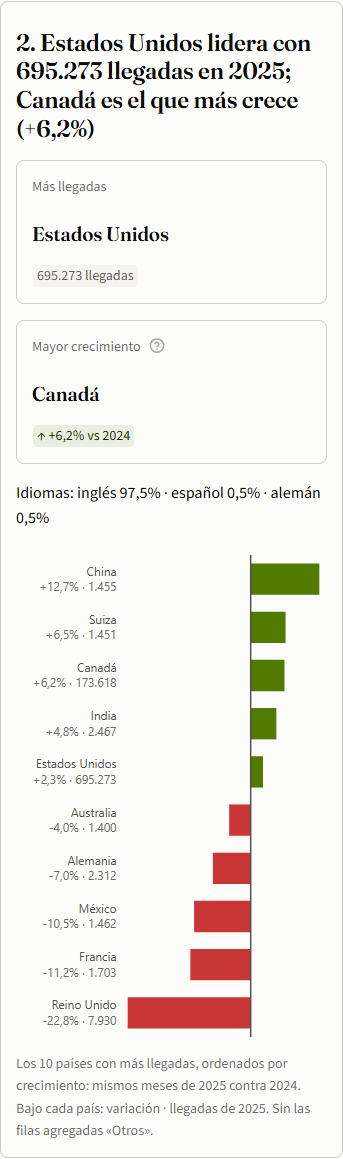
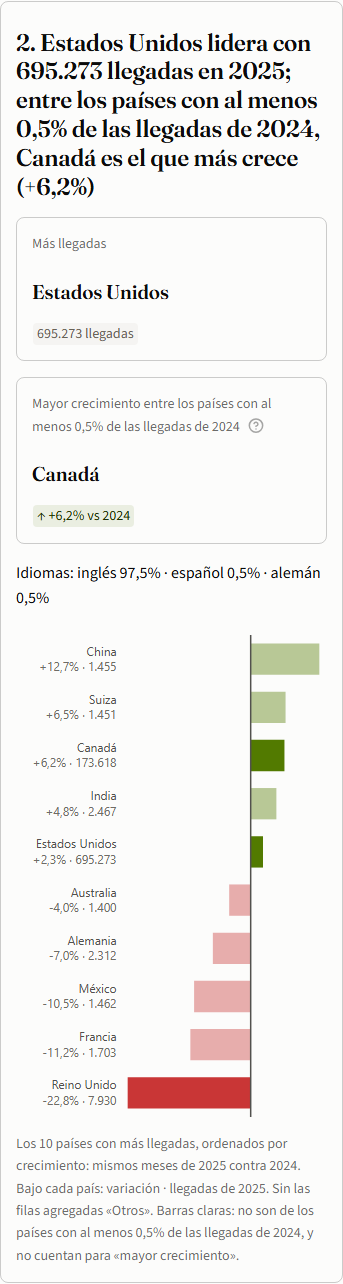
Titulo 2: Canada es el que mas crece solo entre los paises con el minimo de llegadas
El titulo y la tarjeta dicen la regla con la misma constante que usa el calculo
(q.MIN_PARTICIPACION); el ranking aclara las barras de los paises que no cuentan. Prueba que
compara el pais del titulo con el primero del grafico que cumple la regla. El titulo 3 aclara
que el mes pico es el del total. Capturas del ranking y la estacionalidad actualizadas.

Changed region(s): [[0.0292, 0.0, 0.9329, 0.994], [0.4956, 0.4038, 0.9329, 0.6833]]

diff --git a/src/titulos.py b/src/titulos.py
@@ -49,8 +49,19 @@ def recuperacion(quien: str, variacion, periodo: str, total, variacion_pais=None
     return f"{frase}; el país entero aún no ({fmt(variacion_pais, 'pct')})"
 
 
-def paises(hasta: int, lider: dict, crece: dict | None = None, unico: bool = False) -> str:
-    """Pregunta 2. `lider` y `crece` traen pais, llegadas y crecimiento (puede faltar el crecimiento)."""
+def mercados_que_cuentan(hasta: int, minimo: float) -> str:
+    """Regla de «mayor crecimiento», con el mismo mínimo que usa el cálculo (q.MIN_PARTICIPACION)."""
+    return f"países con al menos {fmt(minimo, 'part')} de las llegadas de {hasta - 1}"
+
+
+def paises(
+    hasta: int, lider: dict, crece: dict | None = None, unico: bool = False, minimo: float | None = None
+) -> str:
+    """Pregunta 2. `lider` y `crece` traen pais, llegadas y crecimiento (puede faltar el crecimiento).
+
+    `minimo` es la participación mínima que usa el cálculo de «mayor crecimiento»; es obligatoria
+    cuando hay `crece`, porque «el que más crece» solo vale entre los países que cumplen esa regla.
+    """
     if unico:
         frase = f"2. {lider['pais']} recibió {fmt(lider['llegadas'])} turistas en {hasta}"
         c = lider.get("crecimiento")
@@ -58,14 +69,18 @@ def paises(hasta: int, lider: dict, crece: dict | None = None, unico: bool = Fal
     frase = f"2. {lider['pais']} lidera con {fmt(lider['llegadas'])} llegadas en {hasta}"
     if crece is None:
         return frase
+    if minimo is None:
+        raise ValueError("«el que más crece» necesita el mínimo de llegadas que usa el cálculo")
+    regla = mercados_que_cuentan(hasta, minimo)
+    pct = fmt(crece["crecimiento"], "pct")
     if crece["pais"] == lider["pais"]:
-        return f"{frase} y es el que más crece ({fmt(crece['crecimiento'], 'pct')})"
-    return f"{frase}; {crece['pais']} es el que más crece ({fmt(crece['crecimiento'], 'pct')})"
+        return f"{frase} y, entre los {regla}, es el que más crece ({pct})"
+    return f"{frase}; entre los {regla}, {crece['pais']} es el que más crece ({pct})"
 
 
 def estacionalidad(concentracion: float, mes_pico: int) -> str:
-    """Pregunta 3. `mes_pico` va de 1 a 12."""
+    """Pregunta 3. `mes_pico` va de 1 a 12; es el del total de llegadas, no el de cada fila del mapa."""
     return (
-        f"3. {_mayuscula(MESES_LARGOS[mes_pico - 1])} es el mes pico; "
+        f"3. {_mayuscula(MESES_LARGOS[mes_pico - 1])} es el mes pico del total; "
         f"diciembre a abril concentra {fmt(concentracion, 'part')} de las llegadas"
     )

diff --git a/tests/test_app.py b/tests/test_app.py
@@ -10,6 +10,9 @@ pytest.importorskip("duckdb")
 import duckdb  # noqa: E402
 from streamlit.testing.v1 import AppTest  # noqa: E402
 
+from src import consultas as q  # noqa: E402
+from src import titulos  # noqa: E402
+
 RAIZ = Path(__file__).parent.parent
 APP = RAIZ / "app.py"
 DB = RAIZ / "data" / "processed" / "turismo.duckdb"
@@ -56,7 +59,8 @@ def test_valores_por_defecto():
     llegadas, variacion = (re.search(r"\[(?:↑ |↓ )?(\S+)", b).group(1) for b in badges(at))
     assert p2.startswith(f"2. {lider} lidera con {llegadas} llegadas")
     assert crece in p2 and variacion in p2
-    assert p3.startswith("3. Marzo es el mes pico")
+    assert titulos.mercados_que_cuentan(2025, q.MIN_PARTICIPACION) in p2  # el título dice la regla
+    assert p3.startswith("3. Marzo es el mes pico del total")
     assert tarjeta["Temporada alta (dic-abr)"].value in p3
     assert at.selectbox(key="via").value == "lir"
     assert at.slider(key="rango").value == (2019, 2025)
@@ -102,6 +106,27 @@ def test_un_nombre_largo_va_en_un_encabezado_y_no_en_un_metric_que_lo_recortaria
     assert not at.exception
     assert nombres_de_tarjeta(at)[0] == "República Dominicana"
     assert "República Dominicana" not in [m.value for m in at.metric]
+
+
+@pytest.mark.parametrize(
+    ("via", "regiones"), [("lir", []), ("todas", []), ("terrestre", []), ("todas", ["Europa"])]
+)
+def test_el_pais_del_titulo_es_el_primero_del_grafico_que_cumple_la_regla(via, regiones):
+    at = nueva()
+    at.selectbox(key="via").set_value(via)
+    at.multiselect(key="regiones").set_value(regiones).run()
+    assert not at.exception
+    titulo = [s.value for s in at.subheader][1]
+    grafico = paises_del_ranking(at)  # ordenado por crecimiento, de mayor a menor
+    con = duckdb.connect(str(DB), read_only=True)
+    rk = q.ranking_paises(con, via=via, desde=2019, hasta=2025, regiones=regiones, paises=[])
+    cuenta = dict(zip(rk["pais"], rk["califica"], strict=True))
+    primero = next(p for p in grafico if cuenta[p])
+    assert primero in titulo and "es el que más crece" in titulo
+    assert titulos.mercados_que_cuentan(2025, q.MIN_PARTICIPACION) in titulo
+    assert not any(cuenta[p] for p in grafico[: grafico.index(primero)])  # lo que está más arriba no cuenta
+    barras = json.loads(at.get("plotly_chart")[1].proto.spec)["data"][0]
+    assert [o == 1 for o in barras["marker"]["opacity"]] == [cuenta[p] for p in barras["y"]]
 
 
 def test_rango_2020_2021_pide_un_anio_completo():

diff --git a/app.py b/app.py
@@ -200,15 +200,21 @@ with st.container(border=True):
         )
     else:
         lider, crece = rk.iloc[0], q.mas_crece(rk)
-        st.subheader(titulos.paises(hasta, lider.to_dict(), None if crece is None else crece.to_dict()))
+        # «el que más crece» solo vale entre los países que cumplen el mínimo del cálculo (q.MIN_PARTICIPACION)
+        regla = titulos.mercados_que_cuentan(hasta, q.MIN_PARTICIPACION)
+        st.subheader(
+            titulos.paises(
+                hasta, lider.to_dict(), None if crece is None else crece.to_dict(), minimo=q.MIN_PARTICIPACION
+            )
+        )
         cols = st.columns(2)
         tarjeta_nombre(cols[0], "Más llegadas", lider["pais"], f"{fmt(lider['llegadas'])} llegadas")
         if crece is not None:
             tarjeta_nombre(
-                cols[1], "Mayor crecimiento", crece["pais"],
+                cols[1], f"Mayor crecimiento entre los {regla}", crece["pais"],
                 f"{fmt(crece['crecimiento'], 'pct')} vs {hasta - 1}", crece["crecimiento"],
-                ayuda=f"Entre los {len(rk)} países con más llegadas. Cuentan solo los que en {hasta - 1} "
-                f"tenían al menos {fmt(q.MIN_PARTICIPACION, 'part')} de las llegadas de la vía.",
+                ayuda=f"Entre los {len(rk)} países con más llegadas. Cuentan solo los {regla}: "
+                "así un salto de 50 a 100 llegadas no gana a uno de 10.000 a 11.000.",
             )  # fmt: skip
         idiomas = q.idiomas_principales(con, **filtros)
         if not idiomas.empty:
@@ -216,10 +222,13 @@ with st.container(border=True):
                 "Idiomas: "
                 + " · ".join(f"{i.idioma} {fmt(i.participacion, 'part')}" for i in idiomas.itertuples())
             )
-        grafica(g.fig_ranking(rk))
+        grafica(g.fig_ranking(rk, regla))
+        aviso = ""
+        if (~rk["califica"] & rk["crecimiento"].notna()).any():
+            aviso = f" Barras claras: no son de los {regla}, y no cuentan para «mayor crecimiento»."
         st.caption(
             f"Los {len(rk)} países con más llegadas, ordenados por crecimiento: mismos meses de {hasta} contra "
-            f"{hasta - 1}. Bajo cada país: variación · llegadas de {hasta}. Sin las filas agregadas «Otros»."
+            f"{hasta - 1}. Bajo cada país: variación · llegadas de {hasta}. Sin las filas agregadas «Otros».{aviso}"
         )
 
 # ---------- P3: estacionalidad ----------

diff --git a/tests/test_titulos.py b/tests/test_titulos.py
@@ -1,5 +1,7 @@
 """Los títulos arman la frase con las cifras que reciben, sin ninguna escrita a mano."""
 
+import pytest
+
 from src import titulos as t
 
 
@@ -32,11 +34,16 @@ def test_recuperacion_cambia_de_frase_segun_los_datos():
 def test_paises():
     eeuu = {"pais": "Estados Unidos", "llegadas": 695273, "crecimiento": 0.023}
     canada = {"pais": "Canadá", "llegadas": 173618, "crecimiento": 0.062}
-    assert t.paises(2025, eeuu, canada) == (
-        "2. Estados Unidos lidera con 695.273 llegadas en 2025; Canadá es el que más crece (+6,2%)"
+    assert t.paises(2025, eeuu, canada, minimo=0.005) == (
+        "2. Estados Unidos lidera con 695.273 llegadas en 2025; entre los países con al menos 0,5% "
+        "de las llegadas de 2024, Canadá es el que más crece (+6,2%)"
     )
-    assert t.paises(2025, eeuu, eeuu).endswith("y es el que más crece (+2,3%)")
+    # el mínimo sale del argumento: otro valor, otra frase
+    assert "al menos 2,0% de las llegadas de 2024" in t.paises(2025, eeuu, canada, minimo=0.02)
+    assert t.paises(2025, eeuu, eeuu, minimo=0.005).endswith("es el que más crece (+2,3%)")
     assert t.paises(2025, eeuu) == "2. Estados Unidos lidera con 695.273 llegadas en 2025"
+    with pytest.raises(ValueError, match="mínimo"):  # no se puede decir «el que más crece» sin la regla
+        t.paises(2025, eeuu, canada)
     assert (
         t.paises(2025, eeuu, unico=True)
         == "2. Estados Unidos recibió 695.273 turistas en 2025 (+2,3% contra 2024)"
@@ -49,6 +56,6 @@ def test_paises():
 def test_estacionalidad():
     assert (
         t.estacionalidad(0.55, 3)
-        == "3. Marzo es el mes pico; diciembre a abril concentra 55,0% de las llegadas"
+        == "3. Marzo es el mes pico del total; diciembre a abril concentra 55,0% de las llegadas"
     )
-    assert t.estacionalidad(0.5125, 9).startswith("3. Setiembre es el mes pico")
+    assert t.estacionalidad(0.5125, 9).startswith("3. Setiembre es el mes pico del total")

diff --git a/src/graficos.py b/src/graficos.py
@@ -78,9 +78,17 @@ def fig_recuperacion(serie: pd.DataFrame) -> go.Figure:
     return fig
 
 
-def fig_ranking(rk: pd.DataFrame) -> go.Figure:
-    """P2: crecimiento del último año contra el anterior, por país. Verde sube, rojo baja."""
+OPACIDAD_NO_CUENTA = 0.4
+
+
+def fig_ranking(rk: pd.DataFrame, regla: str | None = None) -> go.Figure:
+    """P2: crecimiento del último año contra el anterior, por país. Verde sube, rojo baja.
+
+    Las barras de los países que no cumplen el mínimo de «mayor crecimiento» (columna `califica`)
+    salen más claras; `regla` describe ese mínimo en el hover.
+    """
     d = rk.dropna(subset=["crecimiento"]).sort_values("crecimiento", ascending=False)
+    nota = f"<br><i>No cuenta para «mayor crecimiento»: no es uno de los {regla}</i>" if regla else ""
     # La etiqueta va bajo el nombre del país: en pantallas angostas una etiqueta al final de la barra se recorta.
     nombres = [
         f"{p}<br><span style='color:{TINTA_TENUE}'>{fmt(c, 'pct')} · {fmt(n)}</span>"
@@ -89,10 +97,16 @@ def fig_ranking(rk: pd.DataFrame) -> go.Figure:
     fig = go.Figure(
         go.Bar(
             x=d["crecimiento"], y=d["pais"], orientation="h",
-            marker_color=[color_variacion(c) for c in d["crecimiento"]],
+            marker=dict(
+                color=[color_variacion(c) for c in d["crecimiento"]],
+                opacity=[1 if q else OPACIDAD_NO_CUENTA for q in d["califica"]],
+            ),
             customdata=[
                 f"Variación: {fmt(c, 'pct')}<br>Llegadas: {fmt(n)}<br>Año anterior: {fmt(p)}"
-                for c, n, p in zip(d["crecimiento"], d["llegadas"], d["llegadas_previo"], strict=True)
+                + ("" if q else nota)
+                for c, n, p, q in zip(
+                    d["crecimiento"], d["llegadas"], d["llegadas_previo"], d["califica"], strict=True
+                )
             ],
             hovertemplate="<b>%{y}</b><br>%{customdata}<extra></extra>",
         )
